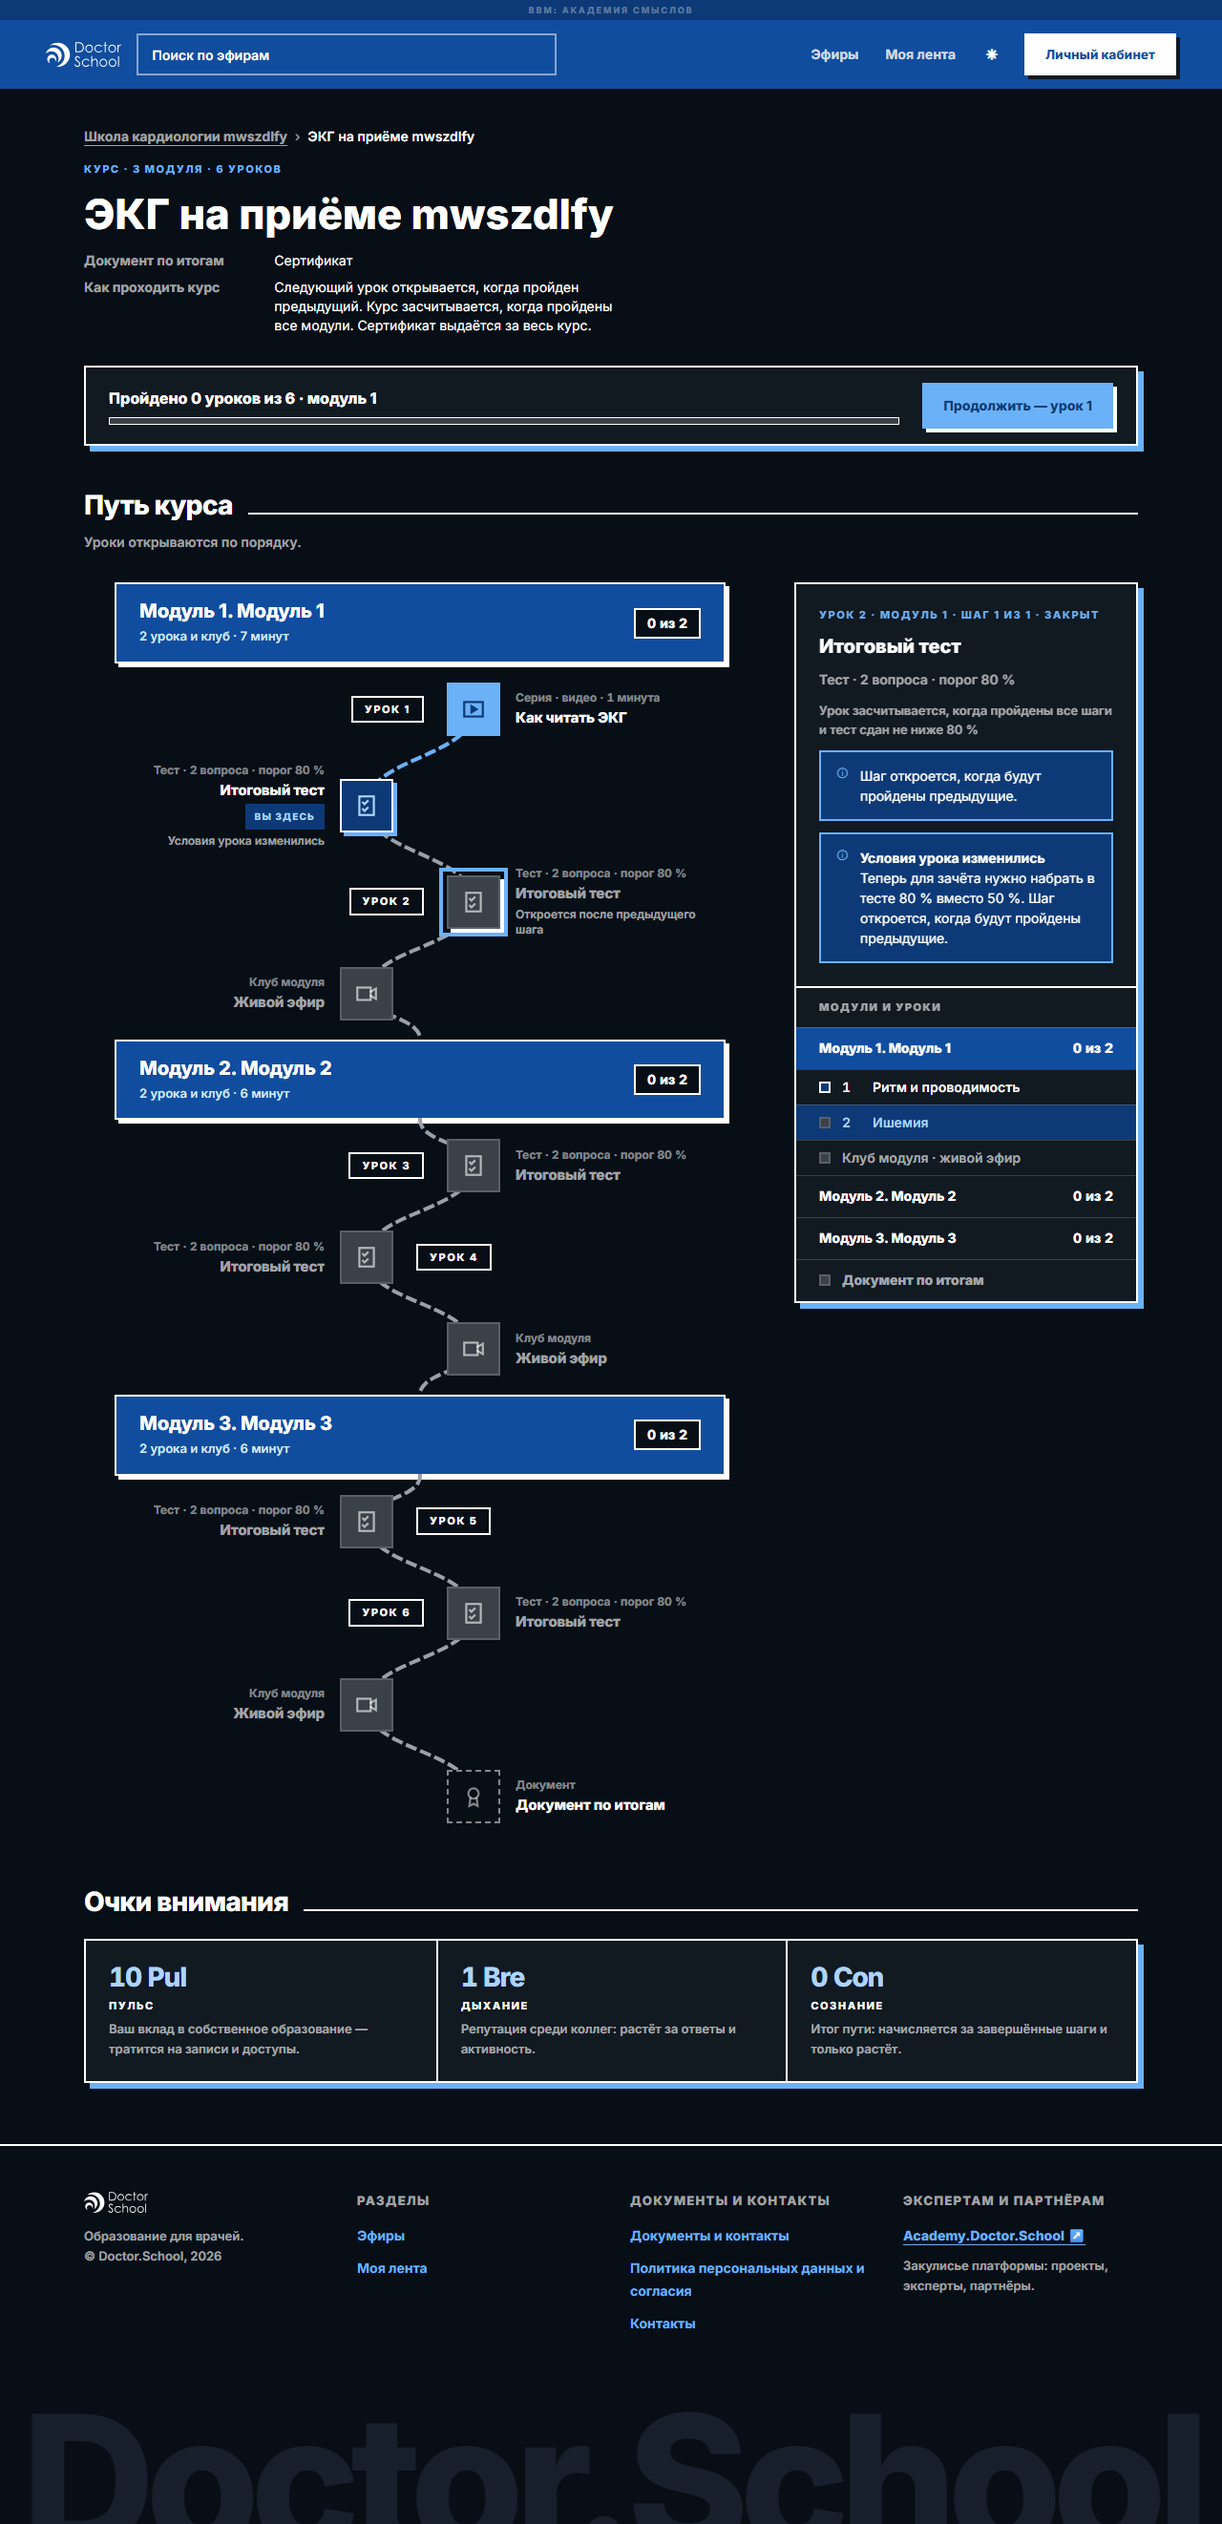
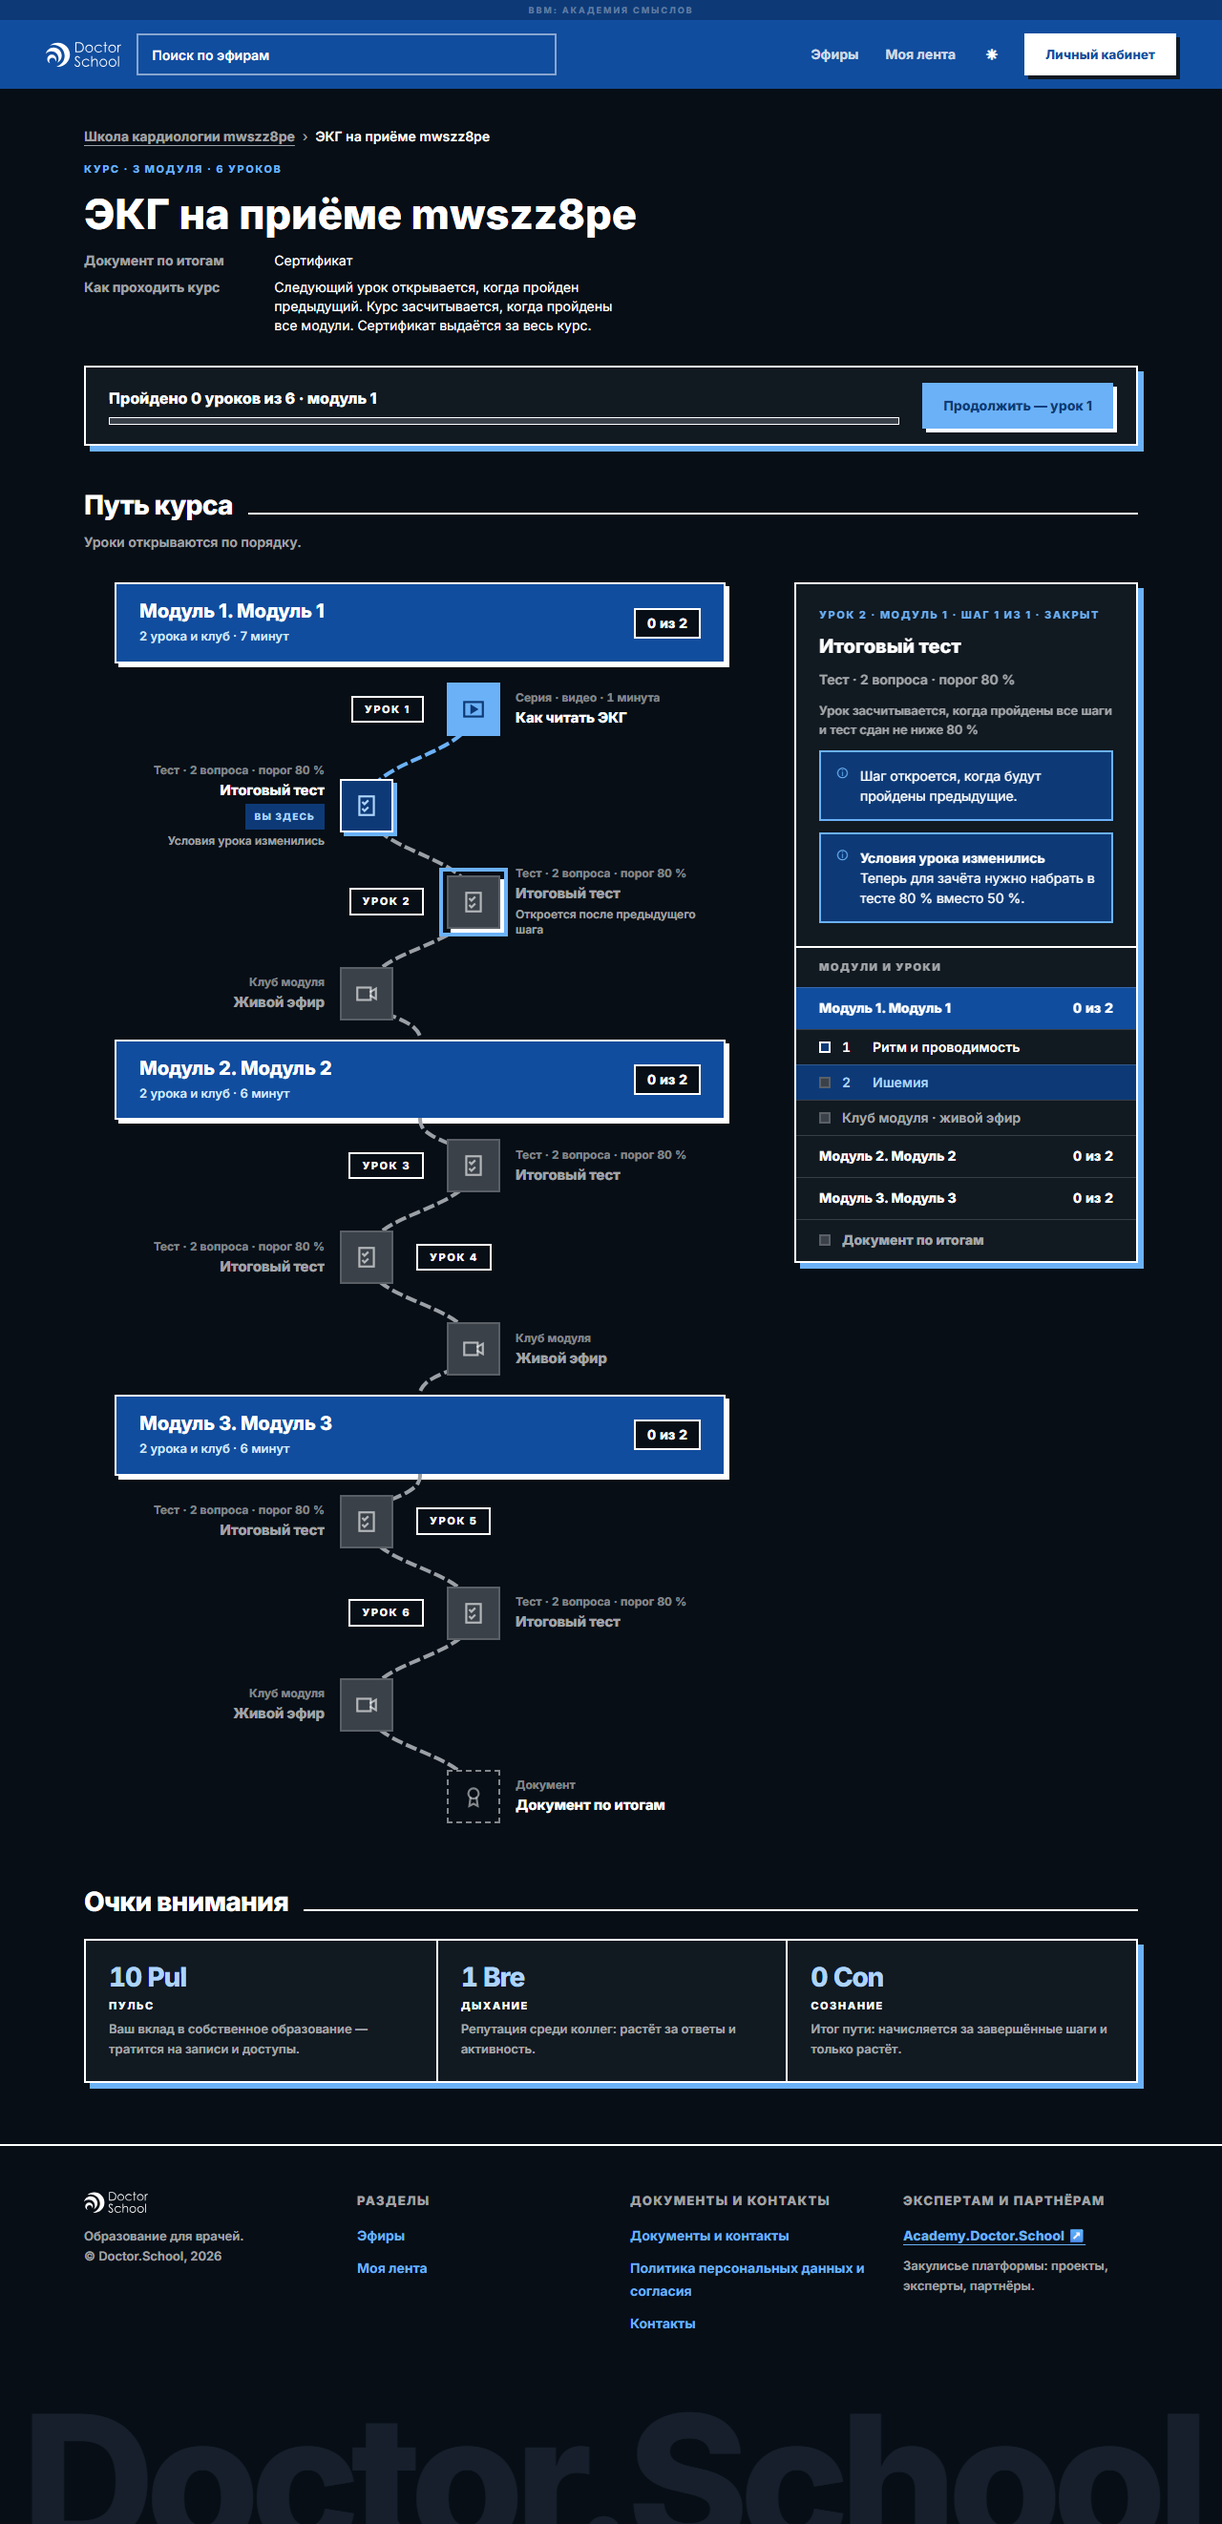
fix(4012): only the attempt the raised pass mark re-judged reads «теперь нужно»; relocked reason names only what changed (024 EARS-24)
Claude-Session: https://claude.ai/code/session_01BCe8s9tLzTJiemukMwd8Yu

Changed region(s): [[0.625, 0.3411, 0.9375, 0.5272], [0.4375, 0.062, 0.5312, 0.093], [0.25, 0.031, 0.2812, 0.062]]

diff --git a/packages/learning/src/ui/status-reason.test.tsx b/packages/learning/src/ui/status-reason.test.tsx
@@ -4,7 +4,7 @@ import { afterEach, beforeEach, describe, expect, it, vi } from "vitest";
 import type { LearningCoursePath, LearningLessonRead, LearningStatusReason, LearningStepRead } from "@ds/schemas";
 
 import { CoursePath } from "./course-path";
-import { LEARNING_UI_COPY, lockReasonText, statusReasonText } from "./learning-ui-copy";
+import { LEARNING_UI_COPY, statusReasonText } from "./learning-ui-copy";
 import { buildPathView } from "./path-view";
 import { StepScreen } from "./step-screen";
 import { CONFIG, ID, coursePath, lessonRead, stubFetch, stubMatchMedia, videoStep } from "./__tests__/fixtures";
@@ -108,13 +108,14 @@ describe("024 EARS-24 — the status reason in the doctor's words", () => {
     expect(`${text.title} ${text.body} ${BODY}`).not.toMatch(/бесплатн|оплат|деньг|руб/i);
   });
 
-  it("EARS-24: a change that locks the lesson names what opens it — the first locked step's condition", () => {
+  it("EARS-24: a change that locks the lesson names only what changed — the lock Alert beside it says how it opens", () => {
     const locked = [
       { type: "video" as const, state: { status: "locked" as const, reason: { kind: "date" as const, at: "2026-12-01T09:00:00.000Z" } } },
       { type: "test" as const, state: { status: "locked" as const, reason: { kind: "previous" as const } } },
     ];
     const text = statusReasonText(reason({ needed: { status: "locked", completionSentence: "" } }), locked);
-    expect(text.body).toBe(`Теперь для зачёта нужно набрать в тесте 80 % вместо 70 %. ${lockReasonText(locked[0]!.state.reason)}`);
+    // The lock Alert next to it says how the lesson opens; the reason names only what changed.
+    expect(text.body).toBe("Теперь для зачёта нужно набрать в тесте 80 % вместо 70 %.");
     expect(text.body).not.toContain("условия курса");
   });
 
@@ -167,7 +168,7 @@ describe("024 EARS-24 — the reopened lesson on the course path", () => {
     expect(first.lockNote).toBe(LEARNING_UI_COPY.lockNote);
     expect(first.ruleChange).toEqual({
       title: TITLE,
-      body: "Теперь для зачёта нужно набрать в тесте 80 % вместо 70 %. Шаг откроется, когда будут пройдены предыдущие.",
+      body: "Теперь для зачёта нужно набрать в тесте 80 % вместо 70 %.",
     });
     expect(nodes.find((n) => n.id === ID.s3)!.lockNote).toBeNull();
   });
@@ -242,12 +243,33 @@ describe("024 EARS-24 — the reason on the lesson", () => {
     await waitFor(() => expect(screen.queryByText(TITLE)).toBeNull());
   });
 
-  it("EARS-24: the last attempt is stated against the new pass mark, not called failed", () => {
+  const withLast = (score: number): LearningStepRead => {
     const step = testStep();
-    if (step.body.type === "test") step.body.lastResult = { score: 50, passed: false };
-    render(<StepScreen courseSlug="kardio" config={CONFIG} lesson={reopenedLesson()} stepId={S1_TEST} step={step} />);
-    expect(screen.getByText("Ваш результат 50 % — теперь нужно 80 %.")).toBeInTheDocument();
+    if (step.body.type === "test") step.body.lastResult = { score, passed: false };
+    return step;
+  };
+
+  it("EARS-24: the attempt that passed at the old pass mark is stated against the new one, not called failed", () => {
+    // 75 % passed at 70 % and fails at 80 %: the rule change re-judged it.
+    render(<StepScreen courseSlug="kardio" config={CONFIG} lesson={reopenedLesson()} stepId={S1_TEST} step={withLast(75)} />);
+    expect(screen.getByText("Ваш результат 75 % — теперь нужно 80 %.")).toBeInTheDocument();
     expect(screen.queryByText(/не сдан/)).toBeNull();
+  });
+
+  it("EARS-24: an attempt that fails under the current rules reads «Тест не сдан» on a fresh read, though the reason stays", () => {
+    // 50 % failed at 70 % as well — the rule change did not re-judge it (the read after a reload).
+    render(<StepScreen courseSlug="kardio" config={CONFIG} lesson={reopenedLesson()} stepId={S1_TEST} step={withLast(50)} />);
+    expect(screen.getByText(TITLE)).toBeInTheDocument();
+    expect(screen.getByText("Тест не сдан: 50 % при пороге 80 %. Пройденные шаги сохранены.")).toBeInTheDocument();
+    expect(screen.queryByText(/теперь нужно/)).toBeNull();
+  });
+
+  it("EARS-24: when the change was not to the pass mark a failed attempt reads «Тест не сдан»", () => {
+    const lesson = reopenedLesson();
+    lesson.lesson.statusReason = reason({ changed: [{ key: "viewed.video.percent", before: 90, after: 100 }] });
+    render(<StepScreen courseSlug="kardio" config={CONFIG} lesson={lesson} stepId={S1_TEST} step={withLast(75)} />);
+    expect(screen.getByText("Тест не сдан: 75 % при пороге 80 %. Пройденные шаги сохранены.")).toBeInTheDocument();
+    expect(screen.queryByText(/теперь нужно/)).toBeNull();
   });
 
   it("EARS-24: a guest never sees a reason", () => {

diff --git a/apps/doctor/e2e/learning-rule-change-live.spec.ts b/apps/doctor/e2e/learning-rule-change-live.spec.ts
@@ -35,8 +35,9 @@ import { requireLiveStandEnv } from "./support/live-stand-env";
  *    Alert — what changed (70 → 80 is built from the rule change, here 50 → 80)
  *    and what to do now — the last attempt reads against the new mark, and the
  *    progress counts no done lesson; lesson 2, locked again, keeps its unlock
- *    line on the path and names what opens it in its summary;
- *  - one doctor re-passes the test at 100 %: the reason leaves the lesson in
+ *    line on the path; its summary names what changed beside the lock Alert;
+ *  - one doctor fails the test at 0 % — «не сдан», also after a reload — then
+ *    re-passes it at 100 %: the reason leaves the lesson in
  *    place and the path, the lesson counts again; another doctor still sees it.
  *
  * Canvas state `причина = правило изменилось` of `design-source/doctor-course.dc.html`
@@ -82,7 +83,8 @@ const TITLE = "Условия урока изменились";
 const BODY =
   "Теперь для зачёта нужно набрать в тесте 80 % вместо 50 %. Пройдите тест ещё раз — остальные шаги урока засчитаны.";
 /** Lesson 2, locked again behind lesson 1: what changed, then what opens it. */
-const LOCKED_BODY = "Теперь для зачёта нужно набрать в тесте 80 % вместо 50 %. Шаг откроется, когда будут пройдены предыдущие.";
+// The lock Alert beside it says how the lesson opens; the reason names only what changed.
+const LOCKED_BODY = "Теперь для зачёта нужно набрать в тесте 80 % вместо 50 %.";
 const UNLOCK_LINE = "Откроется после предыдущего шага";
 
 /** The YouTube stand-in of `learning-path-live.spec.ts`: ready, then the clock at 2× once asked to play. */
@@ -384,13 +386,17 @@ test("024 EARS-24 — a rule change reopens a finished lesson and the doctor see
   await axeClean(first);
   await shoot(first, "step-rule-changed-1280");
 
-  // Reject: 50 % is no longer enough — the reason stays.
-  await takeTest(first, 1);
-  await expect(first.getByText("Тест не сдан: 50 % при пороге 80 %.", { exact: false })).toBeVisible();
+  // Reject: an attempt that fails under the new mark (0 %, under the old one too) — the reason stays.
+  await takeTest(first, 0);
+  await expect(first.getByText("Тест не сдан: 0 % при пороге 80 %.", { exact: false })).toBeVisible();
   await expectReasonAlert(first);
+  // After a reload that attempt is still «не сдан» — only the attempt the change re-judged reads «теперь нужно».
+  await first.reload();
+  await expectReasonAlert(first);
+  await expect(first.getByText("Тест не сдан: 0 % при пороге 80 %. Пройденные шаги сохранены.", { exact: true })).toBeVisible();
+  await expect(first.getByText(/теперь нужно/)).toHaveCount(0);
   // Accept: 100 % completes the lesson — the reason leaves in place.
-  await first.getByRole("button", { name: "Повторить тест" }).click();
-  await takeTest(first, 2, false);
+  await takeTest(first, 2);
   await expect(first.getByText("Тест сдан: 100 % при пороге 80 %")).toBeVisible();
   await expect(first.getByText(TITLE)).toHaveCount(0);
   await shoot(first, "step-rule-change-cleared-1280");

diff --git a/packages/learning/src/ui/step-screen.tsx b/packages/learning/src/ui/step-screen.tsx
@@ -6,6 +6,7 @@ import type {
   LearningAttempt,
   LearningAttemptResult,
   LearningLessonRead,
+  LearningStatusReason,
   LearningStepRead,
 } from "@ds/schemas";
 import { Alert, Badge, Button, Link, Radio, cn } from "@ds/design-system";
@@ -25,7 +26,7 @@ import {
   registerHref,
   stepHref,
 } from "./host-config";
-import { LEARNING_UI_COPY as C, STEP_TYPE_LABEL, lockReasonText, statusReasonText } from "./learning-ui-copy";
+import { LEARNING_UI_COPY as C, STEP_TYPE_LABEL, isRejudgedAttempt, lockReasonText, statusReasonText } from "./learning-ui-copy";
 import { StatusReasonAlert } from "./node-summary";
 import { StepIcon } from "./step-icon";
 
@@ -248,7 +249,7 @@ export function StepScreen({ courseSlug, config, stepId, ...initial }: StepScree
                 <h2 className="m-0 text-xl font-extrabold leading-tight">{step.step.title}</h2>
               </header>
               <div className="flex flex-col gap-4 p-6">
-                <StepBody step={step} onChanged={onChanged} ruleChanged={!!l.statusReason} />
+                <StepBody step={step} onChanged={onChanged} statusReason={l.statusReason} />
               </div>
               <footer className="flex flex-wrap items-center gap-4 border-t-2 border-border px-6 py-4">
                 <div className="flex min-w-0 flex-1 basis-64 flex-col gap-1">
@@ -309,14 +310,14 @@ function GuestGate({ href, lesson }: { href: string; lesson: LearningLessonRead 
   );
 }
 
-function StepBody({ step, onChanged, ruleChanged }: { step: LearningStepRead; onChanged: OnChanged; ruleChanged: boolean }) {
+function StepBody({ step, onChanged, statusReason }: { step: LearningStepRead; onChanged: OnChanged; statusReason: LearningStatusReason | undefined }) {
   switch (step.body.type) {
     case "video":
       return <VideoBody step={step} body={step.body} onChanged={onChanged} />;
     case "download":
       return <DownloadBody step={step} body={step.body} onChanged={onChanged} />;
     case "test":
-      return <TestBody body={step.body} onChanged={onChanged} ruleChanged={ruleChanged} />;
+      return <TestBody body={step.body} onChanged={onChanged} statusReason={statusReason} />;
   }
 }
 
@@ -525,7 +526,7 @@ function DownloadBody({
 }
 
 /** EARS-18 — the exit test: start (an open attempt comes back), one question at a time, submit, the result against the threshold. */
-function TestBody({ body, onChanged, ruleChanged }: { body: Body<"test">; onChanged: OnChanged; ruleChanged: boolean }) {
+function TestBody({ body, onChanged, statusReason }: { body: Body<"test">; onChanged: OnChanged; statusReason: LearningStatusReason | undefined }) {
   const hydrated = useHydrated();
   const [attempt, setAttempt] = useState<LearningAttempt | null>(null);
   const [answers, setAnswers] = useState<Record<string, string>>({});
@@ -600,7 +601,7 @@ function TestBody({ body, onChanged, ruleChanged }: { body: Body<"test">; onChan
           <p className="m-0 text-sm font-semibold text-muted-foreground">
             {body.lastResult.passed
               ? C.passed(body.lastResult.score, body.threshold)
-              : ruleChanged
+              : isRejudgedAttempt(statusReason, body.lastResult.score)
                 ? // 024 EARS-24 — re-judged under the new pass mark the Alert above names.
                   C.rejudged(body.lastResult.score, body.threshold)
                 : C.failed(body.lastResult.score, body.threshold)}

diff --git a/packages/learning/src/ui/learning-ui-copy.ts b/packages/learning/src/ui/learning-ui-copy.ts
@@ -159,15 +159,9 @@ export function statusReasonText(
     case "done":
       needed = "Урок засчитан — проходить его заново не нужно.";
       break;
-    case "locked": {
-      // What opens the lesson now: the first locked step's own condition.
-      const first = steps.find((s) => s.state.status === "locked")?.state;
-      needed =
-        first?.status === "locked"
-          ? lockReasonText(first.reason)
-          : "Урок откроется, когда будут выполнены условия курса.";
-      break;
-    }
+    case "locked":
+      // The lock Alert beside it already says how the lesson opens.
+      return { title: "Условия урока изменились", body: changed };
     case "test-out-reachable":
       // The lesson is reached through its test, not by passing its steps again.
       needed = "Урок будет засчитан, когда вы сдадите тест.";
@@ -188,6 +182,20 @@ export function statusReasonText(
     }
   }
   return { title: "Условия урока изменились", body: `${changed} ${needed}` };
+}
+
+/**
+ * 024 EARS-24 — whether the last failed attempt is one the rule change
+ * re-judged: the change raised the pass mark, and the score met the mark
+ * before it and misses the mark after. Any other failed attempt failed under
+ * the rules it was made under and reads «Тест не сдан».
+ */
+export function isRejudgedAttempt(reason: LearningStatusReason | undefined, score: number): boolean {
+  const mark = reason?.changed.find((c) => c.key === "test.threshold");
+  if (!mark) return false;
+  const before = num(mark.before);
+  const after = num(mark.after);
+  return before !== null && after !== null && score >= before && score < after;
 }
 
 export const LEARNING_UI_COPY = {
